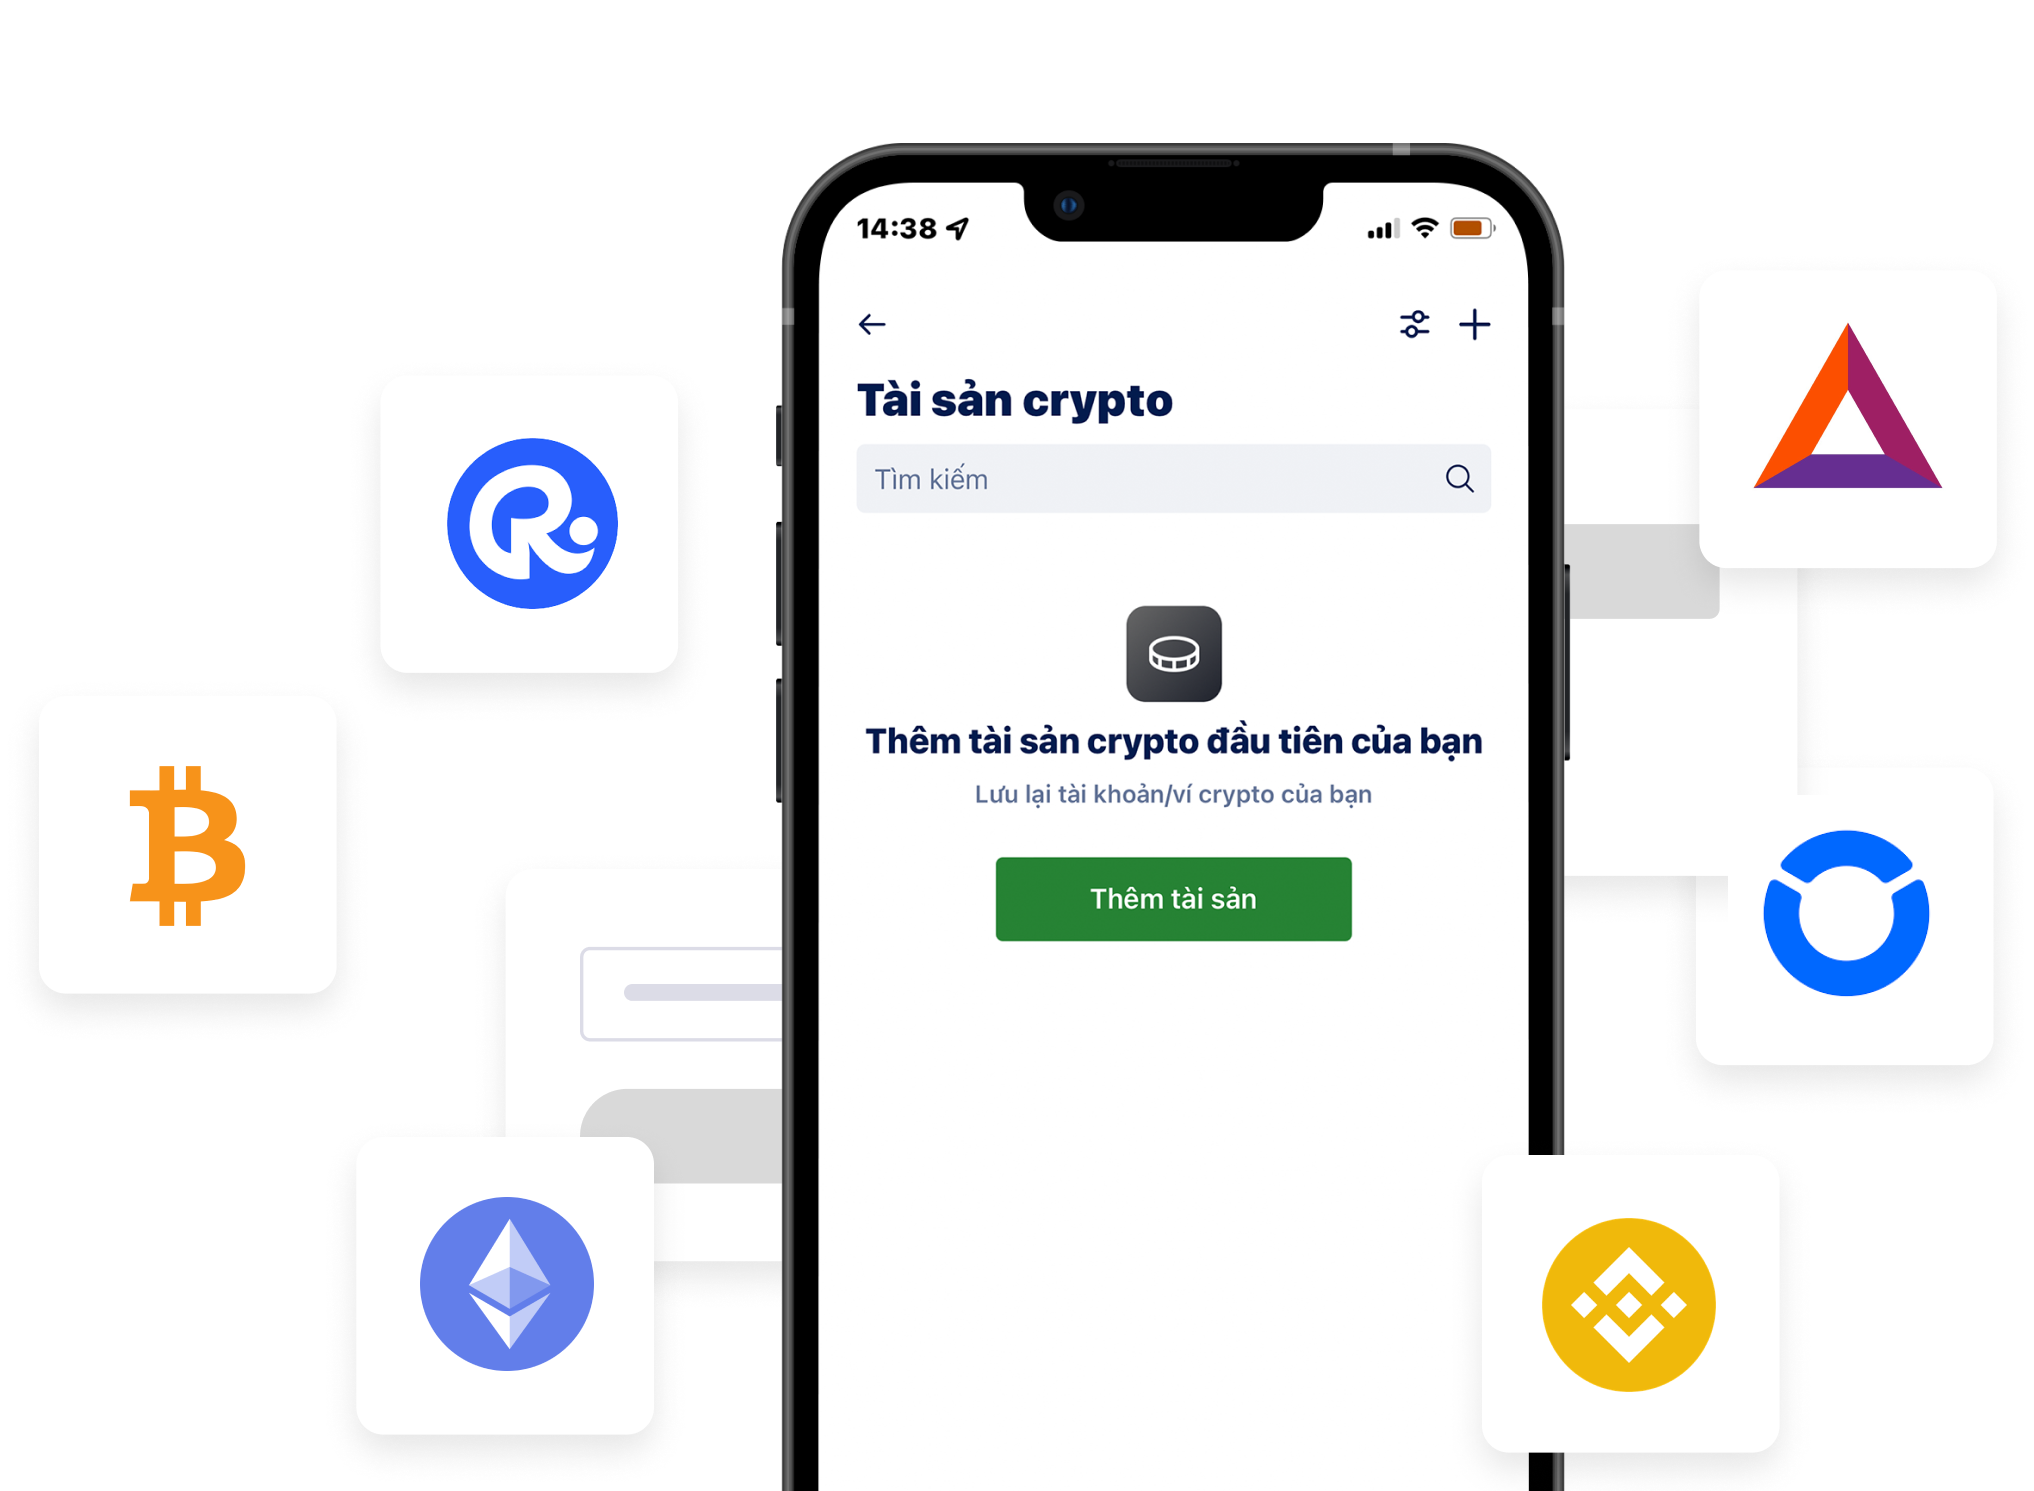
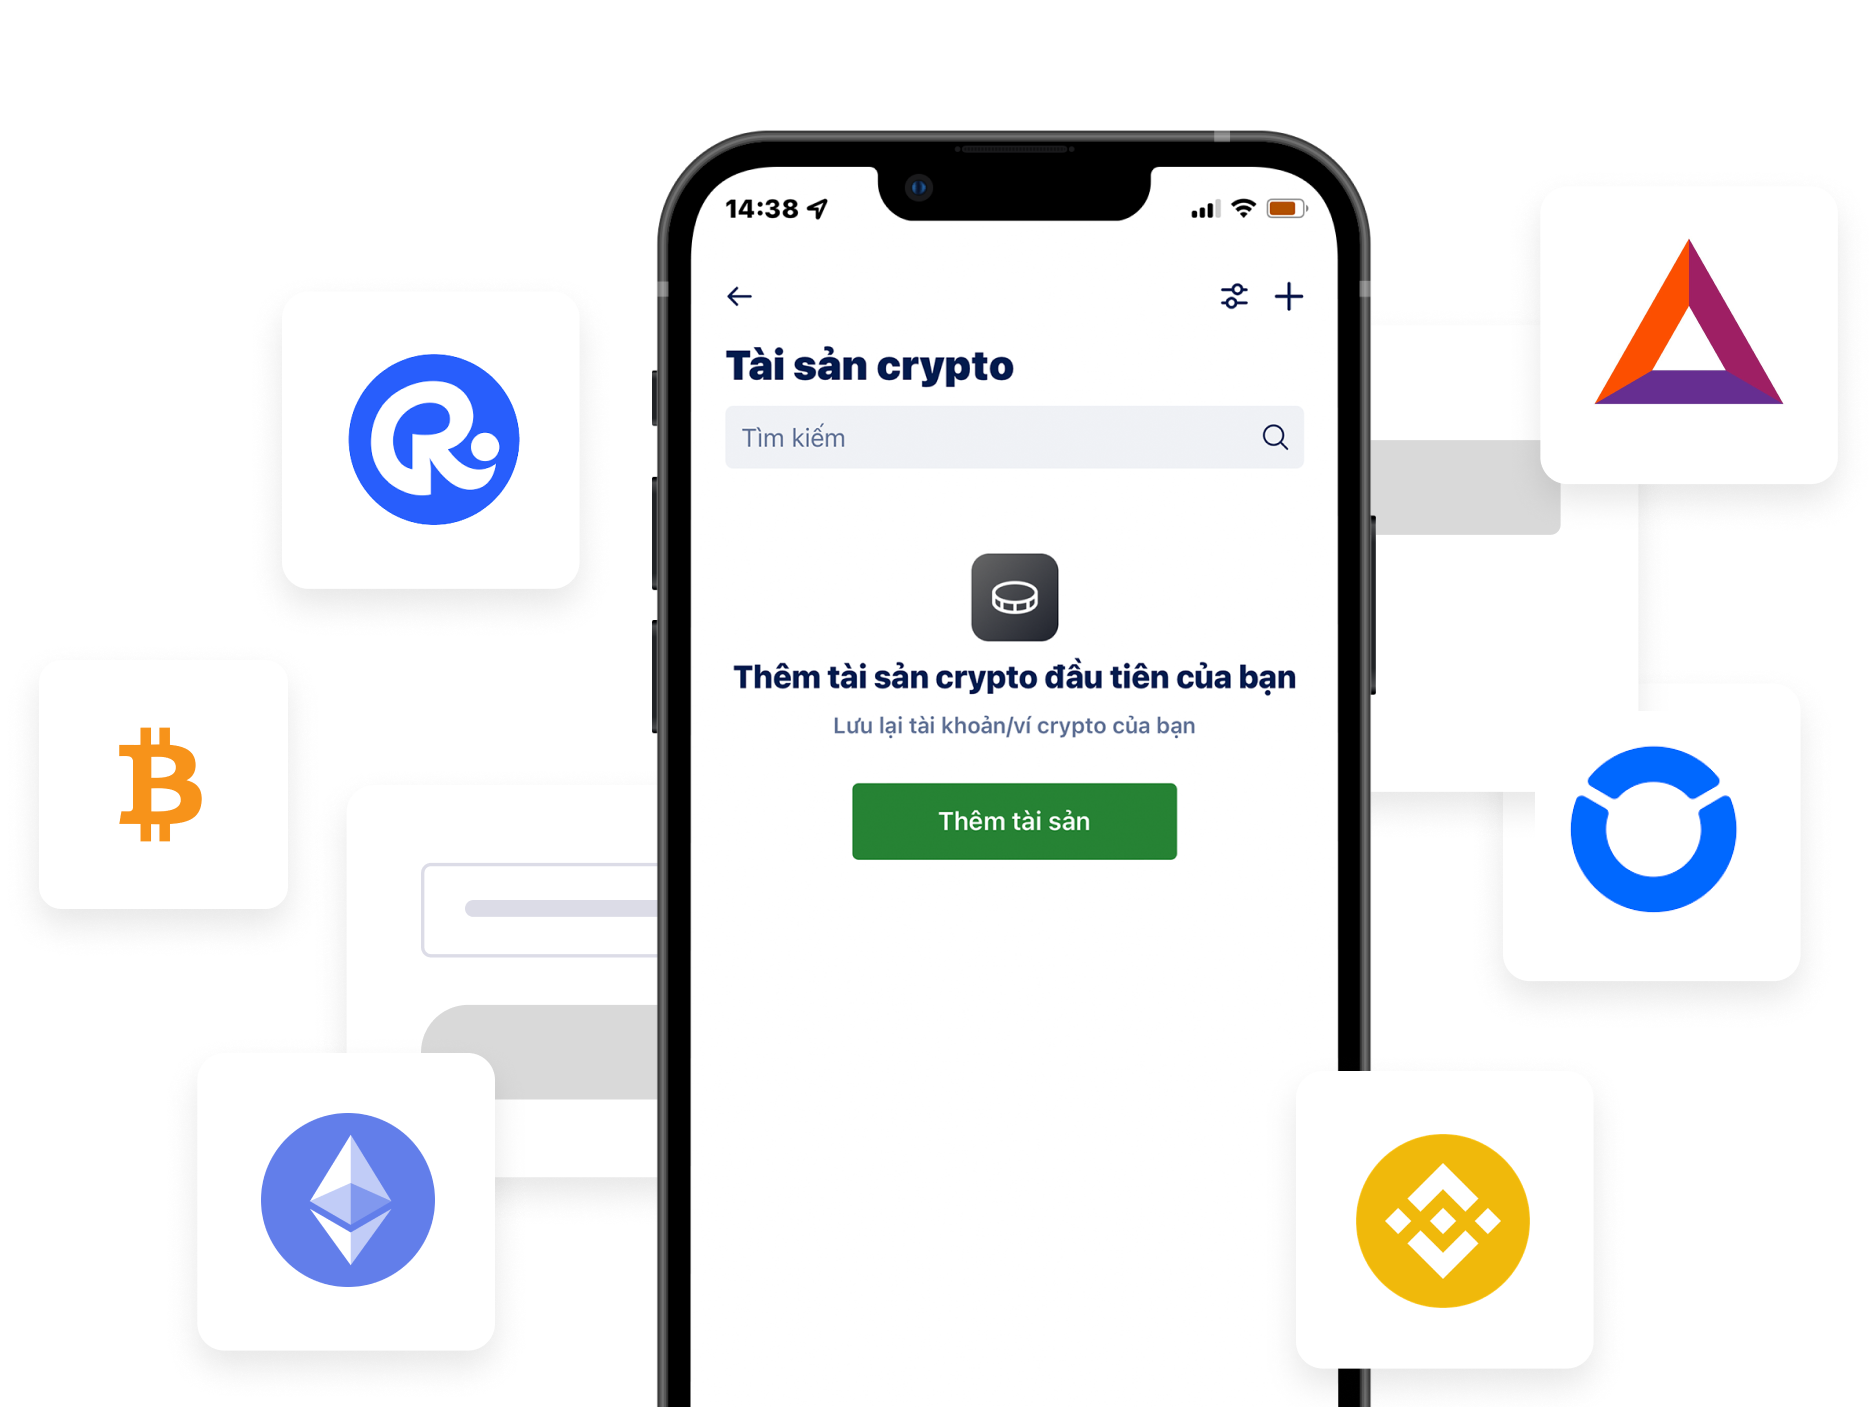
fix header

diff --git a/src/renderer/pages/crypto.vue b/src/renderer/pages/crypto.vue
@@ -23,8 +23,8 @@
               </nuxt-link>
             </div>
           </div>
-          <div class="w-[75%]">
-            <img src="~/assets/images/landing/crypto/bg_welcome.png">
+          <div class="mt-[105px] w-full">
+            <img class="" src="~/assets/images/landing/crypto/bg_welcome.png">
           </div>
         </div>
       </div>
